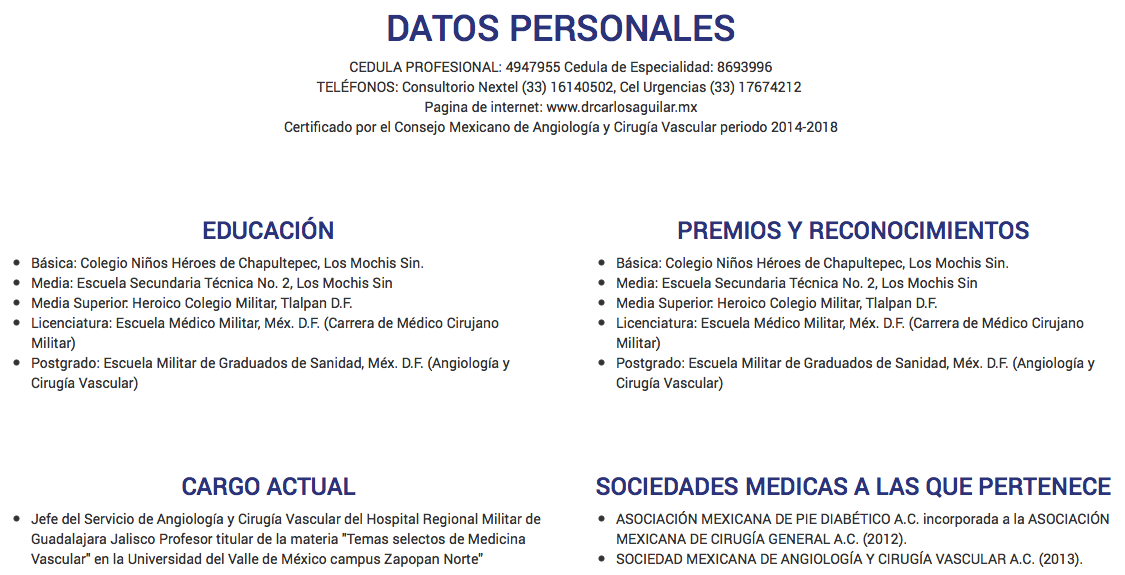
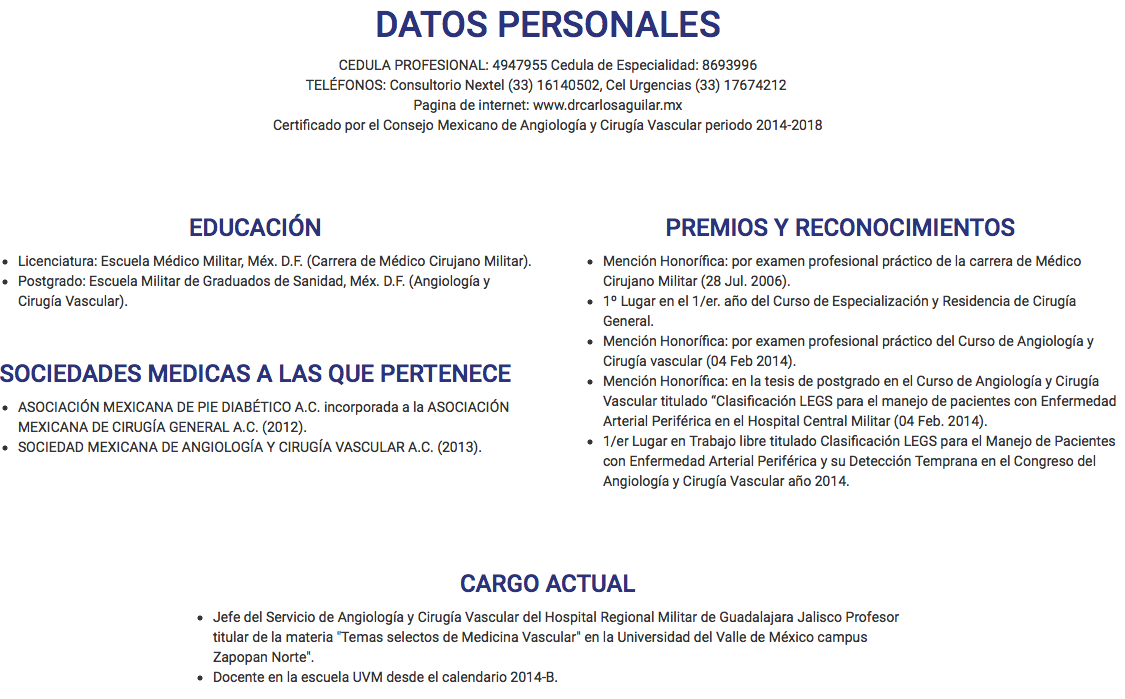
Cambios

diff --git a/drcarlosaguilar.html b/drcarlosaguilar.html
@@ -76,9 +76,13 @@
 	<div id="bg">
 		<div class="container">
 			<div class="row">
-				<div class="col-md-4 col-xs-8 col-xs-offset-2 visible-xs text-center">
+				<div class="col-md-4 hidden-xs text-center">
 					<img src="img/logo.png" alt="" class="img-responsive">
 				</div>
+				<div class="col-xs-12 visible-xs text-center">
+					<img src="img/dr-logo.png" alt="" class="img-responsive img-xs">
+				</div>
+
 			</div>
 			<div class="row">	
 				<div class="col-md-12 mt50" >
@@ -87,12 +91,19 @@
 			</div>
 		</div>
     </div>
-    <div class="container mt50">
+
+    <div class="container mt50 hidden-xs">
     	<div class="row">
     		<div class="col-md-12"><img src="img/info-doc.png" alt="" class="img-responsive" /></div>
     	</div>
     </div>
-<!--
+        <div class="container mt50 visible-xs">
+    	<div class="row">
+    		<div class="col-md-12"><img src="img/info-doc-xs.png" alt="" class="img-responsive" /></div>
+    	</div>
+    </div>
+
+<!--	
     <div class="container">
 	    <div class="row">
 		    <div class="col-md-8 col-md-offset-2 mt50" style="text-align: center">
@@ -103,42 +114,42 @@
 		    <div class="col-md-6 mt50">
 	    		<h3 style="text-align: center">EDUCACIÓN</h3>
 	    		<ul>
-		    		<li>Básica: Colegio Niños Héroes de Chapultepec, Los Mochis Sin.</li> 
-					<li>Media: Escuela Secundaria Técnica No. 2, Los Mochis Sin</li>
-					<li>Media Superior: Heroico Colegio Militar, Tlalpan D.F. </li>
-					<li>Licenciatura: Escuela Médico Militar, Méx. D.F. (Carrera de Médico Cirujano Militar)</li>
-					<li>Postgrado: Escuela Militar de Graduados de Sanidad, Méx. D.F. (Angiología y Cirugía Vascular)</li>
-	    		</ul> 
-		    </div>
-		    <div class="col-md-6 mt50">
-	    		<h3 style="text-align: center">PREMIOS Y RECONOCIMIENTOS</h3>
-	    		<ul>
-		    		<li>Básica: Colegio Niños Héroes de Chapultepec, Los Mochis Sin.</li> 
-					<li>Media: Escuela Secundaria Técnica No. 2, Los Mochis Sin</li>
-					<li>Media Superior: Heroico Colegio Militar, Tlalpan D.F. </li>
-					<li>Licenciatura: Escuela Médico Militar, Méx. D.F. (Carrera de Médico Cirujano Militar)</li>
-					<li>Postgrado: Escuela Militar de Graduados de Sanidad, Méx. D.F. (Angiología y Cirugía Vascular)</li>
-	    		</ul> 
-		    </div>
-		    <div class="col-md-6 mt50">
-	    		<h3 style="text-align: center">CARGO ACTUAL</h3>
-	    		<ul>
-		    		<li>Jefe del Servicio de Angiología y Cirugía Vascular del Hospital Regional Militar de Guadalajara Jalisco 
-Profesor titular de la materia "Temas selectos de Medicina Vascular" en la Universidad del Valle de México campus Zapopan Norte"</li> 
-
-	    		</ul> 
-		    </div>
-		    <div class="col-md-6 mt50">
-	    		<h3 style="text-align: center">SOCIEDADES MEDICAS A LAS QUE PERTENECE</h3>
+					<li>Licenciatura: Escuela Médico Militar, Méx. D.F. (Carrera de Médico Cirujano Militar).</li>
+					<li>Postgrado: Escuela Militar de Graduados de Sanidad, Méx. D.F. (Angiología y Cirugía Vascular).</li>
+	    		</ul>
+	    		<br>
+	    	    <h3 style="text-align: center">SOCIEDADES MEDICAS A LAS QUE PERTENECE</h3>
 	    		<ul>
 		    		<li>ASOCIACIÓN MEXICANA DE PIE DIABÉTICO A.C. incorporada a la ASOCIACIÓN MEXICANA DE CIRUGÍA GENERAL A.C. (2012).</li> 
 					<li>SOCIEDAD MEXICANA DE ANGIOLOGÍA Y CIRUGÍA VASCULAR A.C. (2013).</li>
 
+	    		</ul>  
+		    </div>
+		    <div class="col-md-6 mt50">
+	    		<h3 style="text-align: center">PREMIOS Y RECONOCIMIENTOS</h3>
+	    		<ul> 
+		    		<li>Mención Honorífica: por examen profesional práctico de la carrera de Médico Cirujano Militar (28 Jul. 2006).</li> 
+					<li>1º Lugar en el 1/er. año del Curso de Especialización y Residencia de Cirugía General.</li>
+					<li>Mención Honorífica: por examen profesional práctico del Curso de Angiología y Cirugía vascular (04 Feb 2014).</li>
+					<li>Mención Honorífica: en la tesis de postgrado en el Curso de Angiología y Cirugía Vascular titulado “Clasificación LEGS para el manejo de pacientes con Enfermedad Arterial Periférica en el Hospital Central Militar (04 Feb. 2014).</li>
+					<li>1/er Lugar en Trabajo libre titulado Clasificación LEGS para el Manejo de Pacientes con Enfermedad Arterial Periférica y su Detección Temprana en el Congreso del Angiología y Cirugía Vascular año 2014.</li>
 	    		</ul> 
+		    </div>
+		    <div class="col-md-8 col-md-offset-2 mt50">
+	    		<h3 style="text-align: center">CARGO ACTUAL</h3>
+	    		<ul>
+		    		<li>Jefe del Servicio de Angiología y Cirugía Vascular del Hospital Regional Militar de Guadalajara Jalisco 
+Profesor titular de la materia "Temas selectos de Medicina Vascular" en la Universidad del Valle de México campus Zapopan Norte".</li> 
+<li>Docente en la escuela UVM desde el calendario 2014-B.
+
+	    		</ul> 
+		    </div>
+		    <div class="col-md-6 mt50">
+
 		    </div>
 	    </div>
     </div>
--->
+-->	
     <div class="container">
     	<div class="row">
 <!--

diff --git a/pie-diabetico.html b/pie-diabetico.html
@@ -16,6 +16,7 @@
         <link rel="stylesheet" href="css/modal.css">
         <link rel="stylesheet" href="css/hover-min.css">
         <link rel="stylesheet" href="css/venobox.css">
+        <link rel='stylesheet' href='layerslider/css/layerslider.css'>
 		<link href='http://fonts.googleapis.com/css?family=Roboto:400,300,100,500,700,900' rel='stylesheet' type='text/css'>
         <script src="js/vendor/modernizr-2.8.3-respond-1.4.2.min.js"></script>
     </head>
@@ -78,15 +79,21 @@
     <div id="bg-pie">
 		<div class="container">
 			<div class="row">
-				<div class="col-md-4 col-xs-8 col-xs-offset-2 visible-xs text-center ">
+				<div class="col-md-4 hidden-xs text-center">
 					<img src="img/logo.png" alt="" class="img-responsive">
 				</div>
-				<div class="col-md-6  col-sm-6  text-center mt150 modal-body"  >
+				<div class="col-xs-12 visible-xs text-center">
+					<img src="img/dr-logo.png" alt="" class="img-responsive img-xs">
+				</div>
+				<div class="col-md-6  col-sm-6  text-center mt150 hidden-xs"  >
 					<img src="img/piediabetico.jpg" class="img-responsive">
 				</div>
 				<div id="enfTit" class="col-md-6 col-sm-6  text-right mt150 fz16">
 					<h1>Pie Diab&eacute;tico</h1>
 					<p class="fz16">"Pie diabético es la infección, ulceración y destrucción de los tejidos profundos de la extremidad inferior relacionados con trastornos neurológicos y de diversos grados de enfermedad vascular que pude exigir hospitalización y cirugía derivativa"</p>
+				</div>
+				<div class="col-sm-12  text-center mt50 visible-xs"  >
+					<img src="img/piediabetico.jpg" class="img-responsive">
 				</div>
 			</div>
 		</div> 
@@ -207,7 +214,7 @@
     	<br />	
     </div>
     
-	<div id="datosT">
+<div id="datosT" style="margin-top: 80px;">
 	    <div class="container">
 		    <div class="row">
 			    <div class="col-md-12">
@@ -215,18 +222,35 @@
     			</div>
 		    </div>
 	    </div>
-</div><!-- #datosT -->
+	</div><!-- #datosT -->
 	
-   	<div id="datosEnfermedades">
-    	<div class="container">
-    		<div class="row">
-   				<div class="col-md-10 col-md-offset-2 text-right">
-   					<p class="datosText">Las personas con diabetes tienen un alto indice
-de tener algun problema articular o venoso</p>
-   				</div>
+    <div id="datos" style="margin-bottom: 0;">
+    		<div id="sliderDatos" style="width: 100%; height: 300px;" >
+
+		    	<div class="ls-layer" style="background: url(img/slider02.jpg) no-repeat 30% bottom;">
+					<!--LayerSlider sublayers-->
+					<div class="ls-s4" style="left: 60%; top: 5% !important; width: 70% !important;text-align: right;">
+						<h1 class="hidden-xs">Desde el a&ntilde;o 2004 se sabe la incidencia de enfermedades venosas se relaciona con una actividad laboral mayoritariamente de pie&#769; (90%) por m&aacute;s de 5 horas.</h1>
+						<h4 class="visible-xs">Desde el a&ntilde;o 2004 se sabe la incidencia de enfermedades venosas se relaciona con una actividad laboral mayoritariamente de pie&#769; (90%) por m&aacute;s de 5 horas.</h4>
+
+		       			<br />	
+			   			<a href="/blog/" class="sliderBtn hvr-grow">conoce m&aacute;s...</a>
+		       		</div>
+		    	</div>
+		    	<div class="ls-layer" style="background: url(img/slider01.jpg) no-repeat 30% bottom;">
+					<!--LayerSlider sublayers-->
+					<div class="ls-s4" style="left: 60%; top: 5% !important; width: 70% !important;text-align: right;">
+						<h1 class="hidden-xs">Los factores de riesgo para varices son:</h1>
+						<h2 class="hidden-xs">Historia familiar de varices, Obesidad, Embarazo, Profesiones de riesgo y vida sedentaria </h2>
+						<h3 class="visible-xs">Los factores de riesgo para varices son:</h1>
+						<h4 class="visible-xs">Historia familiar de varices, Obesidad, Embarazo, Profesiones de riesgo y vida sedentaria </h2>
+		       			<br />	
+			   			<a href="drcarlosaguilar.html" class="sliderBtn hvr-grow">conoce m&aacute;s...</a>
+		       		</div>
+		    	</div>
     		</div>
-    	</div>
-    </div>
+    </div><!-- #/datos -->
+
 
 
     
@@ -268,6 +292,23 @@ de tener algun problema articular o venoso</p>
         <script src="js/animatedModal.min.js"></script>
         <script src="js/jquery.fitvids.js"></script>
         <script src="js/venobox.min.js"></script>
+        <script src='layerslider/jQuery/jquery-easing-1.3.js'></script>
+		<script src="layerslider/js/layerslider.kreaturamedia.jquery.js"></script>
+		<script type="text/javascript">
+			$(document).ready(function(){
+				$('#sliderDatos').layerSlider({
+					autoStart           : true,
+				    firstLayer          : 1,
+
+					skinsPath : 'layerslider/skins/',
+					skin : 'rayskin',
+					globalBGColor : '#333',
+					navPrevNext         : false,
+					navStartStop        : false,
+					navButtons          : true,
+				});
+			});
+		</script>
         <script>
 	        $(document).ready(function(){
 			    $('.venobox').venobox({

diff --git a/enfermedades-arteriales.html b/enfermedades-arteriales.html
@@ -79,13 +79,16 @@
     <div id="bg-arteriales">
 		<div class="container">
 			<div class="row">
-				<div class="col-md-4 col-xs-8 col-xs-offset-2 visible-xs text-center ">
+				<div class="col-md-4 hidden-xs text-center">
 					<img src="img/logo.png" alt="" class="img-responsive">
+				</div>
+				<div class="col-xs-12 visible-xs text-center">
+					<img src="img/dr-logo.png" alt="" class="img-responsive img-xs">
 				</div>
 				<div class="col-md-12 text-center mt150">
 					<h1>Enfermedades Arteriales</h1>
 				</div>
-				<div  class="col-md-5  col-sm-6  text-center  modal-body"  id="videoIndex">
+				<div  class="col-md-5  col-sm-6  text-center hidden-xs"  id="videoIndex">
 					<iframe width="560" height="315" src="https://www.youtube.com/embed/U7g9cTATkwE" frameborder="0" allowfullscreen></iframe>
 					<p>REPARACIÓN ENDOVASCULAR DE ANEURISMA DE AORTA ABDOMINAL</p>
 				</div>
@@ -96,6 +99,10 @@
 </p>
 					<br />	
 <!-- 					<a id="demo01" class="botonInfoAz hvr-grow" href="#animatedModal">Ver tratamientos <span class="glyphicon glyphicon-play-circle" aria-hidden="true"></span></a> -->
+				</div>
+				<div  class=" col-xs-12 text-center visible-xs"  id="videoIndexxs">
+					<iframe width="560" height="315" src="https://www.youtube.com/embed/U7g9cTATkwE" frameborder="0" allowfullscreen></iframe>
+					<p>REPARACIÓN ENDOVASCULAR DE ANEURISMA DE AORTA ABDOMINAL</p>
 				</div>
 				<div id="animatedModal" class="text-center">
 			        <div class="close-animatedModal"> 
@@ -280,9 +287,11 @@ La segunda causa de esta enfermedad se origina en las arterias carótidas debido
 		  $(document).ready(function(){
 		    // Target your .container, .wrapper, .post, etc.
 		    $("#videoIndex").fitVids();
+		    $("#videoIndexxs").fitVids();
 		    $("#video02").fitVids();
 		  });
 		</script>
+	
 		<script>
 
             //demo 01

diff --git a/enfermedades-venosas.html b/enfermedades-venosas.html
@@ -78,10 +78,13 @@
     <div id="bg-venosas">
 		<div class="container">
 			<div class="row">
-				<div class="col-md-4 col-xs-8 col-xs-offset-2 visible-xs text-center ">
+				<div class="col-md-4 hidden-xs text-center">
 					<img src="img/logo.png" alt="" class="img-responsive">
 				</div>
-				<div class="col-md-5  col-sm-6  text-center mt200 modal-body"  id="videoIndex">
+				<div class="col-xs-12 visible-xs text-center">
+					<img src="img/dr-logo.png" alt="" class="img-responsive img-xs">
+				</div>
+				<div class="col-md-5  col-sm-6  text-center mt200 hidden-xs"  id="videoIndex">
 					<iframe width="420" height="315" src="https://www.youtube.com/embed/Gj1KBi0uBTc" frameborder="0" allowfullscreen></iframe>
 					<p><strong>ESCLEROTERAPIA CON VEINLIGHT</strong> (Borrado de ara&ntilde;itas venosas)</p>
 				</div>
@@ -93,6 +96,11 @@
 					<a href="etapas-varices.html" target="_self" class="botonInfoAz hvr-grow">ver estapas de varices <span class="glyphicon glyphicon-chevron-right" aria-hidden="true"></span></a>
 
 				</div>
+				<div class="col-sm-12  text-center mt50 visible-xs"  id="videoIndexxs">
+					<iframe width="420" height="315" src="https://www.youtube.com/embed/Gj1KBi0uBTc" frameborder="0" allowfullscreen></iframe>
+					<p><strong>ESCLEROTERAPIA CON VEINLIGHT</strong> (Borrado de ara&ntilde;itas venosas)</p>
+				</div>
+				
 			</div>
 		
 		</div> 

diff --git a/contacto.html b/contacto.html
@@ -79,7 +79,6 @@
 				<div id="contacto" class="col-md-8 col-md-offset-2 text-center mt150" style="margin-bottom: 50px;"> 
 			  		<h1>Contactame</h1>
 			  		<hr class="hrCual" />
-			  		<p>Lorem ipsum dolor sit amet, consectetuer adipiscing elit. Aenean commodo ligula eget dolor. Aenean massa. Cum sociis natoque penatibus et magnis dis parturient montes, nascetur ridiculus mus. Donec quam felis, ultricies nec,</p>
 			  		<div id="infoCont">
 			  			<span class="glyphicon glyphicon-map-marker" aria-hidden="true" style="font-size: 26px;"></span>
 			  			<p style="font-size: 18px;">Luis Pérez Verdía 117<br />Col. Ladrón de Guevara<br />Guadalajara Jalisco</p>

diff --git a/etapas-varices.html b/etapas-varices.html
@@ -77,8 +77,11 @@
     <div id="bg-enfermedades">
 		<div class="container">
 			<div class="row" style="padding-bottom: 30px;">
-				<div class="col-md-4 col-xs-8 col-xs-offset-2 visible-xs text-center">
+				<div class="col-md-4 hidden-xs text-center">
 					<img src="img/logo.png" alt="" class="img-responsive">
+				</div>
+				<div class="col-xs-12 visible-xs text-center">
+					<img src="img/dr-logo.png" alt="" class="img-responsive img-xs">
 				</div>
 				<div class="col-md-8 col-md-offset-2 text-center mt200">
 					<h1>Enfermedades Venosas</h1>

diff --git a/css/main.css b/css/main.css
@@ -197,6 +197,10 @@ a.sliderBtn {
   margin-top: 80px;
   margin-bottom: 50px;
 }
+.img-xs {
+  width: 250px;
+  margin: 0 auto;
+}
 /* ------------------------------
 			index
 ------------------------------ */

diff --git a/css/main.less b/css/main.less
@@ -216,7 +216,10 @@ a.sliderBtn {
 	margin-bottom: 50px;	
 	
 }
-
+.img-xs {
+	width: 250px;
+	margin: 0 auto;
+}
 
 /* ------------------------------
 			index
